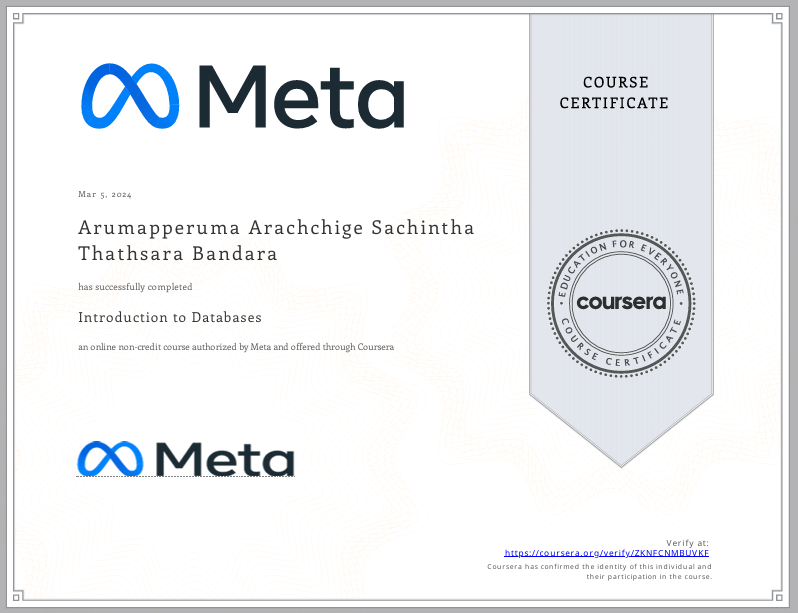
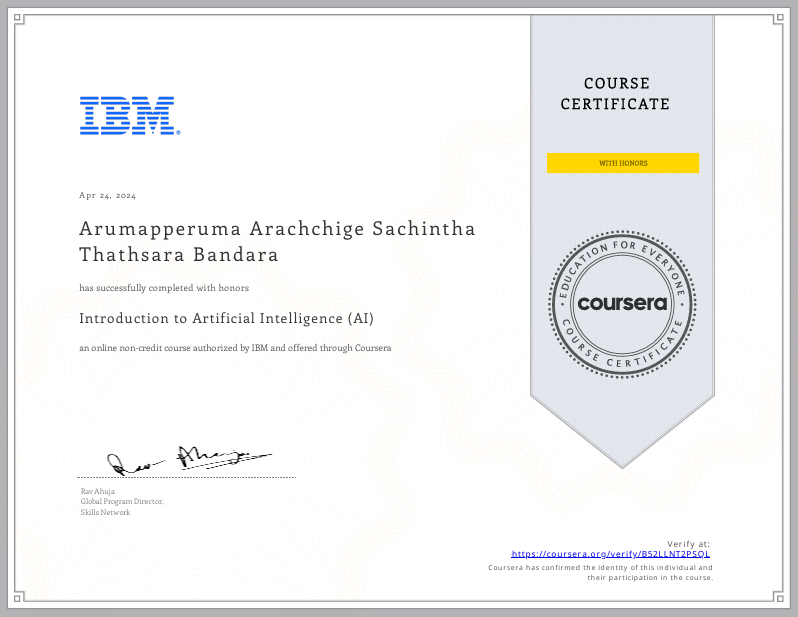
add more certificates

diff --git a/src/pages/Licenses/Licenses.jsx b/src/pages/Licenses/Licenses.jsx
@@ -49,6 +49,22 @@ import genAICertificate from '../../assets/images/certificates/ibm-genai-softwar
 import genAICourse1 from '../../assets/images/certificates/ibm-genai-software/course1.png';
 import genAICourse2 from '../../assets/images/certificates/ibm-genai-software/course2.png';
 import genAICourse3 from '../../assets/images/certificates/ibm-genai-software/course3.png';
+import aiforSoftCertificate from '../../assets/images/certificates/ibm-aiFound-every/certificate.png';
+import aiforSoftCourse1 from '../../assets/images/certificates/ibm-aiFound-every/course1.png';
+import aiforSoftCourse2 from '../../assets/images/certificates/ibm-aiFound-every/course2.png';
+import aiforSoftCourse3 from '../../assets/images/certificates/ibm-aiFound-every/course3.png';
+import aiforSoftCourse4 from '../../assets/images/certificates/ibm-aiFound-every/course4.png';
+import aiDevolopCertificate from '../../assets/images/certificates/ibm-aiDeveloper/certificate.png';
+import aiDevolopCourse1 from '../../assets/images/certificates/ibm-aiDeveloper/course1.png';
+import aiDevolopCourse2 from '../../assets/images/certificates/ibm-aiDeveloper/course2.png';
+import aiDevolopCourse3 from '../../assets/images/certificates/ibm-aiDeveloper/course3.png';
+import aiDevolopCourse4 from '../../assets/images/certificates/ibm-aiDeveloper/course4.png';
+import aiDevolopCourse5 from '../../assets/images/certificates/ibm-aiDeveloper/course5.png';
+import aiDevolopCourse6 from '../../assets/images/certificates/ibm-aiDeveloper/course6.png';
+import aiDevolopCourse7 from '../../assets/images/certificates/ibm-aiDeveloper/course7.png';
+import aiDevolopCourse8 from '../../assets/images/certificates/ibm-aiDeveloper/course8.png';
+import aiDevolopCourse9 from '../../assets/images/certificates/ibm-aiDeveloper/course9.png';
+import aiDevolopCourse10 from '../../assets/images/certificates/ibm-aiDeveloper/course10.png';
 
 const professionalCertificates = [
   {
@@ -463,7 +479,270 @@ const professionalCertificates = [
         "verify": "https://coursera.org/verify/ML3PD2OG5L3D",
       }
     ]
+  },
+  {
+    "id": 7,
+    "institute": "IBM",
+    "name": "AI Foundations for Everyone",
+    "descrip": "The IBM AI Foundations for Everyone Professional Certificate program provides learners with foundational knowledge of Artificial Intelligence (AI). This program covers key AI concepts, including machine learning, deep learning, and generative AI. Students will explore AI applications, IBM Watson AI services, and how AI-powered chatbots can be built and deployed. Through hands-on exercises, quizzes, and projects, learners will develop practical skills in AI and its real-world applications.",
+    "image": aiforSoftCertificate,
+    "verify": "https://coursera.org/verify/specialization/ZBAC1Q9OBW2U",
+    "courses": [
+      {
+        "id": 801,
+        "name": "Introduction to Artificial Intelligence (AI)",
+        "image": aiforSoftCourse1,
+        "details": "This course introduces the fundamentals of AI, including its history, applications, and impact on various industries. Students will learn about machine learning, deep learning, and AI ethics. Practical exercises will help them understand how AI models are built and deployed.",
+        "skills": ["Artificial Intelligence", "Machine Learning", "Deep Learning", "AI Ethics"],
+        "verify": "https://coursera.org/verify/B52LLNT2PSQL"
+      },
+      {
+        "id": 802,
+        "name": "Generative AI: Introduction and Applications",
+        "image": aiforSoftCourse2,
+        "details": "This course explores generative AI, its real-world applications, and ethical considerations. Students will learn how generative AI models create new content, including text and images. The course also introduces AI-powered tools used in various industries.",
+        "skills": ["Generative AI", "AI Applications", "Machine Learning", "Ethical AI"],
+        "verify": "https://coursera.org/verify/F2U56RPPNNB2"
+      },
+      {
+        "id": 803,
+        "name": "Generative AI: Prompt Engineering Basics",
+        "image": aiforSoftCourse3,
+        "details": "This course provides an introduction to prompt engineering techniques for generative AI models. Students will learn how to craft effective prompts for AI-powered tools like ChatGPT and DALL·E. The course includes practical exercises to optimize prompt effectiveness.",
+        "skills": ["Prompt Engineering", "Generative AI", "Natural Language Processing"],
+        "verify": "https://coursera.org/verify/9VGYQMIXPD5R"
+      },
+      {
+        "id": 804,
+        "name": "Building AI Powered Chatbots Without Programming",
+        "image": aiforSoftCourse4,
+        "details": "In this course, students will learn how to create AI-powered chatbots without requiring programming skills. Using IBM Watson, they will design, train, and deploy a chatbot for web-based applications. The course includes hands-on exercises to build intelligent virtual assistants.",
+        "skills": ["Chatbot Development", "AI Services", "IBM Watson", "Natural Language Processing"],
+        "verify": "https://coursera.org/verify/PW8155OC57C6"
+      }
+    ]
+  },
+  {
+    "id": 8,
+    "institute": "IBM",
+    "name": "IBM AI Developer",
+    "descrip": "The IBM AI Developer Professional Certificate program provides job-ready AI skills in just 6 months. Learners gain practical experience building AI-powered applications, chatbots, and web solutions using Python, Flask, and generative AI technologies. The program covers fundamental AI concepts, generative AI, software development lifecycle (SDLC), and web development. Upon completion, learners will have industry-recognized certification and a portfolio showcasing AI-driven solutions.",
+    "image": aiDevolopCertificate,
+    "verify": "https://coursera.org/verify/professional-cert/MB7WE2TCZ8K9",
+    "courses": [
+      {
+        "id": 901,
+        "name": "Introduction to Software Engineering",
+        "image": aiDevolopCourse1,
+        "details": "This course introduces fundamental software engineering concepts, including the Software Development Lifecycle (SDLC), agile methodologies, and best practices for software design and development.",
+        "skills": ["Software Engineering", "SDLC", "Agile Methodologies"],
+        "verify": "https://coursera.org/verify/AUSU48XGV2XM"
+      },
+      {
+        "id": 902,
+        "name": "Introduction to Artificial Intelligence (AI)",
+        "image": aiDevolopCourse2,
+        "details": "An introduction to the key concepts, applications, and ethical considerations of Artificial Intelligence, including machine learning, neural networks, and real-world AI use cases.",
+        "skills": ["Artificial Intelligence", "Machine Learning", "Neural Networks"],
+        "verify": "https://coursera.org/verify/B52LLNT2PSQL"
+      },
+      {
+        "id": 903,
+        "name": "Generative AI: Introduction and Applications",
+        "image": aiDevolopCourse3,
+        "details": "This course covers the fundamentals of generative AI, including models like GPT and their applications in text generation, image synthesis, and AI-powered solutions.",
+        "skills": ["Generative AI", "NLP", "Machine Learning"],
+        "verify": "https://coursera.org/verify/F2U56RPPNNB2"
+      },
+      {
+        "id": 904,
+        "name": "Generative AI: Prompt Engineering Basics",
+        "image": aiDevolopCourse4,
+        "details": "A deep dive into prompt engineering techniques, helping students optimize AI-generated responses for various applications, including chatbots and content creation.",
+        "skills": ["Prompt Engineering", "AI Optimization", "Natural Language Processing"],
+        "verify": "https://coursera.org/verify/9VGYQMIXPD5R"
+      },
+      {
+        "id": 905,
+        "name": "Introduction to HTML, CSS, & JavaScript",
+        "image": aiDevolopCourse5,
+        "details": "This course provides a hands-on introduction to frontend web development, covering HTML, CSS, JavaScript, and best practices for responsive and interactive UI design.",
+        "skills": ["HTML", "CSS", "JavaScript", "Responsive Design"],
+        "verify": "https://coursera.org/verify/UST0RWOWMNM2"
+      },
+      {
+        "id": 906,
+        "name": "Python for Data Science, AI & Development",
+        "image": aiDevolopCourse6,
+        "details": "An in-depth course on Python programming with a focus on data science and AI development, covering libraries like NumPy, Pandas, and Scikit-learn.",
+        "skills": ["Python", "Data Science", "AI Development"],
+        "verify": "https://coursera.org/verify/IZZZW01AJHYP"
+      },
+      {
+        "id": 907,
+        "name": "Developing AI Applications with Python and Flask",
+        "image": aiDevolopCourse7,
+        "details": "Students will learn to build and deploy AI-powered web applications using Python and Flask, including API development and AI model integration.",
+        "skills": ["Python", "Flask", "Web Development", "API Development"],
+        "verify": "https://coursera.org/verify/DAS26180VHPN"
+      },
+      {
+        "id": 908,
+        "name": "Building Generative AI-Powered Applications with Python",
+        "image": aiDevolopCourse8,
+        "details": "This course covers the development of AI-powered applications using Python, integrating generative AI models, and optimizing performance.",
+        "skills": ["Generative AI", "Python", "AI Application Development"],
+        "verify": "https://coursera.org/verify/A7Q5995J1ISP"
+      },
+      {
+        "id": 909,
+        "name": "Generative AI: Elevate Your Software Development Career",
+        "image": aiDevolopCourse9,
+        "details": "A strategic course on how generative AI is revolutionizing software development and how professionals can leverage AI-driven tools for productivity.",
+        "skills": ["Generative AI", "Software Engineering", "AI in Development"],
+        "verify": "https://coursera.org/verify/ML3PD2OG5L3D"
+      },
+      {
+        "id": 910,
+        "name": "Software Developer Career Guide and Interview Preparation",
+        "image": aiDevolopCourse10,
+        "details": "This course prepares students for software development job interviews by covering coding challenges, data structures, algorithms, and system design.",
+        "skills": ["Coding Interviews", "Data Structures", "Algorithms", "System Design"],
+        "verify": "https://coursera.org/verify/8FSFF0XKLSQU"
+      }
+    ]
+  },
+  {
+    "id": 9,
+    "institute": "IBM",
+    "name": "IBM Full Stack Software Developer",
+    "descrip": "The IBM Full Stack Software Developer program equips learners with essential skills for developing Cloud Native Applications. The program covers front-end technologies like HTML, CSS, JavaScript, React, and Bootstrap, as well as back-end technologies like Node.js, Express, Python, and Django. Learners will also work with cloud technologies such as Containers, Kubernetes, Microservices, and Serverless Functions. The program culminates with hands-on projects, including a capstone, to showcase skills in real-world applications.",
+    "image": "frontCertificate",
+    "verify": "https://coursera.org/verify/professional-cert/LPNIZ6X525B0",
+    "courses": [
+      {
+        "id": 1001,
+        "name": "Introduction to Software Engineering",
+        "image": "frontCourse1",
+        "details": "This course covers the fundamentals of software engineering, including software development methodologies, design patterns, and application architecture.",
+        "skills": ["Software Engineering", "Development Methodologies", "Design Patterns"],
+        "verify": "https://coursera.org/verify/LPNIZ6X525B0"
+      },
+      {
+        "id": 1002,
+        "name": "Introduction to Cloud Computing",
+        "image": "frontCourse2",
+        "details": "This course introduces the basics of cloud computing, covering cloud infrastructure, services, and deployment models.",
+        "skills": ["Cloud Computing", "Cloud Infrastructure", "Cloud Services"],
+        "verify": "https://coursera.org/verify/LPNIZ6X525B0"
+      },
+      {
+        "id": 1003,
+        "name": "Introduction to HTML, CSS, & JavaScript",
+        "image": "frontCourse3",
+        "details": "Learn the basics of front-end web development with HTML, CSS, and JavaScript, and how to structure and style web pages.",
+        "skills": ["HTML", "CSS", "JavaScript"],
+        "verify": "https://coursera.org/verify/LPNIZ6X525B0"
+      },
+      {
+        "id": 1004,
+        "name": "Getting Started with Git and GitHub",
+        "image": "frontCourse4",
+        "details": "Learn how to use Git for version control and GitHub for collaboration, including commits, branches, and pull requests.",
+        "skills": ["Git", "GitHub", "Version Control", "Collaboration"],
+        "verify": "https://coursera.org/verify/LPNIZ6X525B0"
+      },
+      {
+        "id": 1005,
+        "name": "Developing Front-End Apps with React",
+        "image": "frontCourse5",
+        "details": "Learn to build dynamic user interfaces with React, including components, JSX, state management, and event handling.",
+        "skills": ["React", "JSX", "State Management", "Event Handling"],
+        "verify": "https://coursera.org/verify/LPNIZ6X525B0"
+      },
+      {
+        "id": 1006,
+        "name": "Developing Back-End Apps with Node.js and Express",
+        "image": "frontCourse6",
+        "details": "This course covers back-end development using Node.js and Express, including building APIs, working with databases, and handling HTTP requests.",
+        "skills": ["Node.js", "Express", "APIs", "Backend Development"],
+        "verify": "https://coursera.org/verify/LPNIZ6X525B0"
+      },
+      {
+        "id": 1007,
+        "name": "Python for Data Science, AI & Development",
+        "image": "frontCourse7",
+        "details": "Learn Python programming for data science and AI development, including working with libraries like Pandas, NumPy, and Matplotlib.",
+        "skills": ["Python", "Data Science", "AI", "Libraries (Pandas, NumPy)"],
+        "verify": "https://coursera.org/verify/LPNIZ6X525B0"
+      },
+      {
+        "id": 1008,
+        "name": "Developing AI Applications with Python and Flask",
+        "image": "frontCourse8",
+        "details": "Learn how to build AI applications using Python and Flask, including using machine learning models and deploying web applications.",
+        "skills": ["AI", "Python", "Flask", "Machine Learning"],
+        "verify": "https://coursera.org/verify/LPNIZ6X525B0"
+      },
+      {
+        "id": 1009,
+        "name": "Django Application Development with SQL and Databases",
+        "image": "frontCourse9",
+        "details": "This course focuses on developing Django applications, working with SQL databases, and using Django's ORM for data management.",
+        "skills": ["Django", "SQL", "Databases", "ORM"],
+        "verify": "https://coursera.org/verify/LPNIZ6X525B0"
+      },
+      {
+        "id": 1010,
+        "name": "Introduction to Containers w/ Docker, Kubernetes & OpenShift",
+        "image": "frontCourse10",
+        "details": "Learn how to use Docker, Kubernetes, and OpenShift for containerization and orchestration, as well as cloud deployment strategies.",
+        "skills": ["Docker", "Kubernetes", "OpenShift", "Containers"],
+        "verify": "https://coursera.org/verify/LPNIZ6X525B0"
+      },
+      {
+        "id": 1011,
+        "name": "Application Development using Microservices and Serverless",
+        "image": "frontCourse11",
+        "details": "Learn to build scalable applications with microservices and serverless architecture, including deployment and management strategies.",
+        "skills": ["Microservices", "Serverless", "Cloud Native", "Scalable Applications"],
+        "verify": "https://coursera.org/verify/LPNIZ6X525B0"
+      },
+      {
+        "id": 1012,
+        "name": "Full Stack Application Development Capstone Project",
+        "image": "frontCourse12",
+        "details": "The capstone project gives learners the opportunity to apply everything they’ve learned by building a full-stack cloud-native application.",
+        "skills": ["Full Stack Development", "Cloud Native", "Capstone Project", "Application Development"],
+        "verify": "https://coursera.org/verify/LPNIZ6X525B0"
+      },
+      {
+        "id": 1013,
+        "name": "Full Stack Software Developer Assessment",
+        "image": "frontCourse13",
+        "details": "An assessment that evaluates your full-stack development knowledge and skills, preparing you for real-world application development.",
+        "skills": ["Full Stack Development", "Assessment", "Real-World Applications"],
+        "verify": "https://coursera.org/verify/LPNIZ6X525B0"
+      },
+      {
+        "id": 1014,
+        "name": "Generative AI: Elevate your Software Development Career",
+        "image": "frontCourse14",
+        "details": "This course focuses on the impact of generative AI on software development and how to integrate AI techniques into your applications.",
+        "skills": ["Generative AI", "Software Development", "AI Integration"],
+        "verify": "https://coursera.org/verify/LPNIZ6X525B0"
+      },
+      {
+        "id": 1015,
+        "name": "Software Developer Career Guide and Interview Preparation",
+        "image": "frontCourse15",
+        "details": "This course helps learners prepare for software developer interviews, covering coding challenges, system design, and interview strategies.",
+        "skills": ["Interview Preparation", "Coding Challenges", "System Design", "Career Guidance"],
+        "verify": "https://coursera.org/verify/LPNIZ6X525B0"
+      }
+    ]
   }
+  
 ];
 
 
